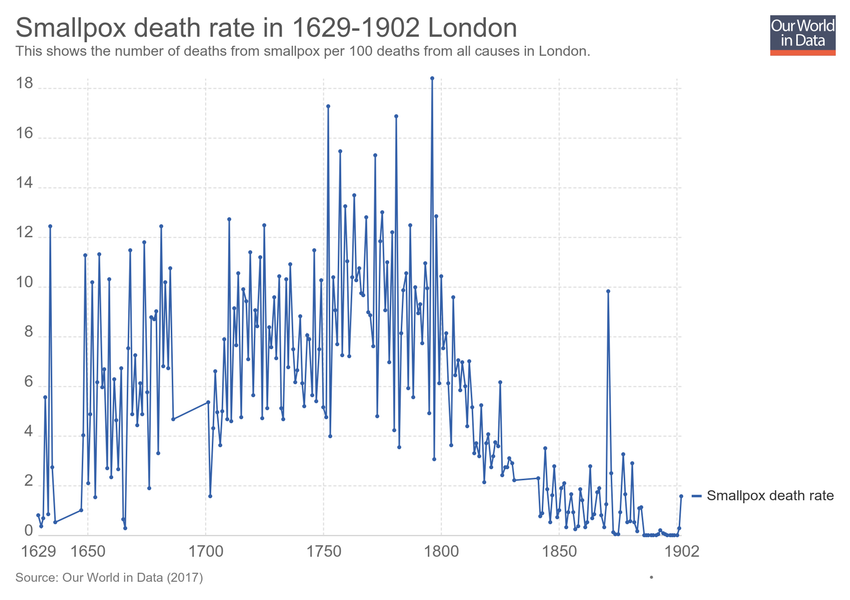
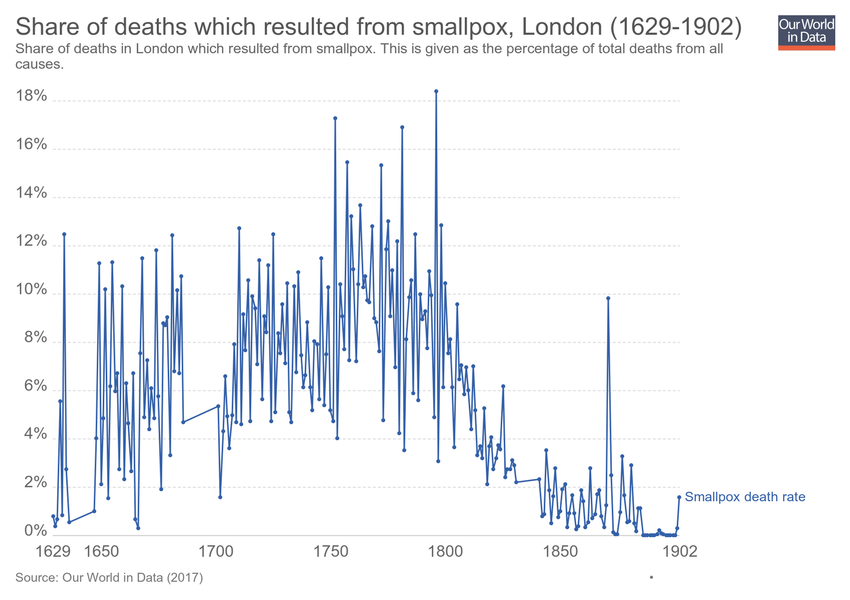
Updating chart deaths-from-smallpox-in-london

diff --git a/grapher/deaths-from-smallpox-in-london.html b/grapher/deaths-from-smallpox-in-london.html
@@ -1,4 +1,4 @@
-<!doctype html><html><head><meta name="viewport" content="width=device-width, initial-scale=1" /><title>Smallpox death rate in 1629-1902 London - Our World in Data</title><meta name="description" content="This shows the number of deaths from smallpox per 100 deaths from all causes in London. " /><link rel="canonical" href="https://ourworldindata.org/grapher/deaths-from-smallpox-in-london" /><meta property="fb:app_id" content="1149943818390250" /><meta property="og:url" content="https://ourworldindata.org/grapher/deaths-from-smallpox-in-london" /><meta property="og:title" content="Smallpox death rate in 1629-1902 London" /><meta property="og:description" content="This shows the number of deaths from smallpox per 100 deaths from all causes in London. " /><meta property="og:image" content="https://ourworldindata.org/grapher/exports/deaths-from-smallpox-in-london.png?v=1" /><meta property="og:image:width" content="850" /><meta property="og:image:height" content="600" /><meta property="og:site_name" content="Our World in Data" /><meta name="twitter:card" content="summary_large_image" /><meta name="twitter:site" content="@OurWorldInData" /><meta name="twitter:creator" content="@OurWorldInData" /><meta name="twitter:title" content="Smallpox death rate in 1629-1902 London" /><meta name="twitter:description" content="This shows the number of deaths from smallpox per 100 deaths from all causes in London. " /><meta name="twitter:image" content="https://ourworldindata.org/grapher/exports/deaths-from-smallpox-in-london.png?v=1" /><style>
+<!doctype html><html><head><meta name="viewport" content="width=device-width, initial-scale=1" /><title>Share of deaths which resulted from smallpox, London (1629-1902) - Our World in Data</title><meta name="description" content="Share of deaths in London which resulted from smallpox. This is given as the percentage of total deaths from all causes." /><link rel="canonical" href="https://ourworldindata.org/grapher/deaths-from-smallpox-in-london" /><meta property="fb:app_id" content="1149943818390250" /><meta property="og:url" content="https://ourworldindata.org/grapher/deaths-from-smallpox-in-london" /><meta property="og:title" content="Share of deaths which resulted from smallpox, London (1629-1902)" /><meta property="og:description" content="Share of deaths in London which resulted from smallpox. This is given as the percentage of total deaths from all causes." /><meta property="og:image" content="https://ourworldindata.org/grapher/exports/deaths-from-smallpox-in-london.png?v=2" /><meta property="og:image:width" content="850" /><meta property="og:image:height" content="600" /><meta property="og:site_name" content="Our World in Data" /><meta name="twitter:card" content="summary_large_image" /><meta name="twitter:site" content="@OurWorldInData" /><meta name="twitter:creator" content="@OurWorldInData" /><meta name="twitter:title" content="Share of deaths which resulted from smallpox, London (1629-1902)" /><meta name="twitter:description" content="Share of deaths in London which resulted from smallpox. This is given as the percentage of total deaths from all causes." /><meta name="twitter:image" content="https://ourworldindata.org/grapher/exports/deaths-from-smallpox-in-london.png?v=2" /><style>
         html, body {
             height: 100%;
             margin: 0;
@@ -20,8 +20,8 @@
         }
     </style><noscript><style>
                     figure { display: none !important; }
-                </style></noscript><link rel="stylesheet" href="https://ourworldindata.org/grapher/assets/commons.bundle.dcbbe53805c487d5e57617b10ac73a8a.css" /><link rel="preload" href="/grapher/data/variables/66164+66168.json?v=1" as="fetch" crossorigin /></head><body class="singleChart"><figure data-grapher-src="/grapher/deaths-from-smallpox-in-london"></figure><noscript id="fallback"><img src="/grapher/exports/deaths-from-smallpox-in-london.svg" /><p>Interactive visualization requires JavaScript</p></noscript><script src="https://cdn.polyfill.io/v2/polyfill.min.js?features=es6,fetch"></script><script src="https://ourworldindata.org/grapher/assets/commons.bundle.bf155bbb85458868bcfd.js"></script><script src="https://ourworldindata.org/grapher/assets/charts.bundle.bf155bbb85458868bcfd.js"></script><script>
-        var jsonConfig = {"id":1723,"map":{"projection":"World","legendStepSize":20,"colorSchemeLabels":[],"colorSchemeValues":[],"defaultProjection":"World","colorSchemeMinValue":0,"customNumericColors":[],"customCategoryColors":{},"customCategoryLabels":{},"customHiddenCategories":{}},"tab":"chart","slug":"deaths-from-smallpox-in-london","type":"LineChart","title":"Smallpox death rate in 1629-1902 London","xAxis":{"scaleType":"linear"},"yAxis":{"min":0,"scaleType":"linear","canChangeScaleType":true},"version":1,"subtitle":"This shows the number of deaths from smallpox per 100 deaths from all causes in London. ","hasMapTab":false,"originUrl":"","stackMode":"absolute","dimensions":[{"id":12420,"order":0,"chartId":1723,"display":{},"property":"y","targetYear":null,"variableId":66164},{"id":12421,"order":1,"chartId":1723,"display":{},"property":"y","targetYear":null,"variableId":66168}],"hasChartTab":true,"isPublished":true,"selectedData":[{"index":1,"entityId":1}],"internalNotes":"","addCountryMode":"change-country","hideTitleAnnotation":true};
+                </style></noscript><link rel="stylesheet" href="https://ourworldindata.org/grapher/assets/commons.bundle.dcbbe53805c487d5e57617b10ac73a8a.css" /><link rel="preload" href="/grapher/data/variables/66164+66168.json?v=2" as="fetch" crossorigin /></head><body class="singleChart"><figure data-grapher-src="/grapher/deaths-from-smallpox-in-london"></figure><noscript id="fallback"><img src="/grapher/exports/deaths-from-smallpox-in-london.svg" /><p>Interactive visualization requires JavaScript</p></noscript><script src="https://cdn.polyfill.io/v2/polyfill.min.js?features=es6,fetch"></script><script src="https://ourworldindata.org/grapher/assets/commons.bundle.bf155bbb85458868bcfd.js"></script><script src="https://ourworldindata.org/grapher/assets/charts.bundle.bf155bbb85458868bcfd.js"></script><script>
+        var jsonConfig = {"id":1723,"map":{"projection":"World","colorSchemeLabels":[],"colorSchemeValues":[],"colorSchemeMinValue":0,"customNumericColors":[],"customCategoryColors":{},"customCategoryLabels":{},"customHiddenCategories":{}},"tab":"chart","slug":"deaths-from-smallpox-in-london","type":"LineChart","title":"Share of deaths which resulted from smallpox, London (1629-1902)","xAxis":{"scaleType":"linear"},"yAxis":{"min":0,"scaleType":"linear","canChangeScaleType":true},"version":2,"subtitle":"Share of deaths in London which resulted from smallpox. This is given as the percentage of total deaths from all causes.","hasMapTab":false,"originUrl":"","stackMode":"absolute","dimensions":[{"display":{"unit":"%"},"property":"y","variableId":66164},{"display":{"unit":"%"},"property":"y","variableId":66168}],"hasChartTab":true,"isPublished":true,"selectedData":[{"index":1,"entityId":1}],"internalNotes":"","addCountryMode":"change-country","hideTitleAnnotation":true};
         var figure = document.getElementsByTagName("figure")[0];
         try {
             window.App = {};
